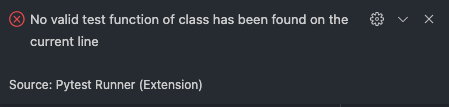
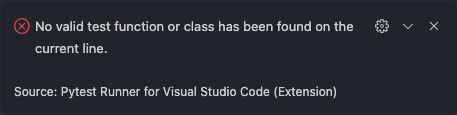
fix typo

diff --git a/src/extension.ts b/src/extension.ts
@@ -147,7 +147,7 @@ async function runTest(pytestCfgKey: string) {
     if (!selection) {
         if (editor.selection.isEmpty) {
             vscode.window.showErrorMessage(
-                'No valid test function of class has been found on the current line'
+                'No valid test function or class has been found on the current line.'
             );
             return;
         } else {

diff --git a/README.md b/README.md
@@ -87,4 +87,8 @@ The second run should work properly.
 
 ### 0.0.1
 
-- First `pytest-runner` release
+- First `pytest-runner` release.
+
+### 0.0.2
+
+- Fix typo in error messages.

diff --git a/CHANGELOG.md b/CHANGELOG.md
@@ -3,3 +3,7 @@
 ## 0.0.1
 
 - Initial release
+
+## 0.0.2
+
+- Fix typo in error messages
